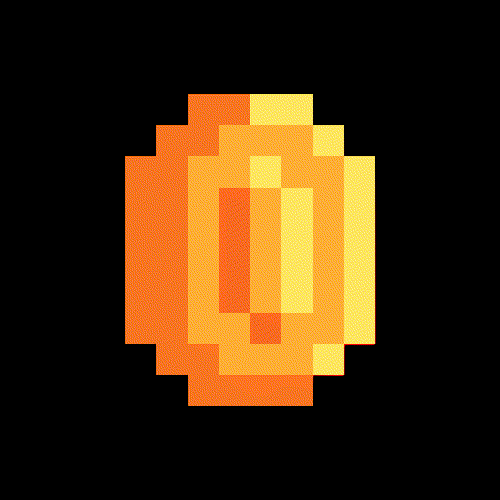
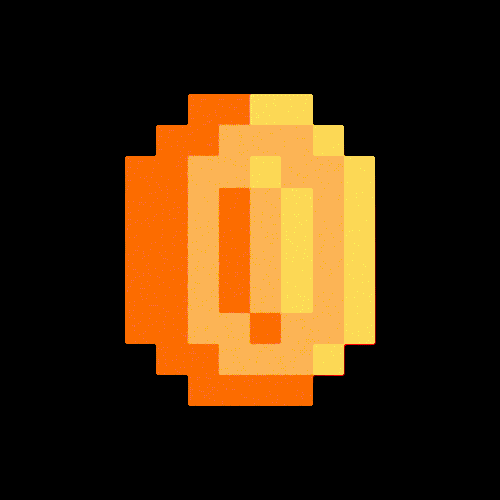
partial: change: added firmware side code

Changed region(s): [[0.24, 0.18, 0.75, 0.81]]

diff --git a/js-client/src/examples/test.ts b/js-client/src/examples/test.ts
@@ -21,7 +21,7 @@ const finalAnimation = BuildAnimation({
 	width: 100,
 	height: 100,
 	delta: 30,
-	max_colors: 100,
+	max_colors: 10,
 	quantizer: 'mediancut',
 });
 

diff --git a/src/rendering/render-parameter-parsers.cpp b/src/rendering/render-parameter-parsers.cpp
@@ -768,4 +768,36 @@ namespace RenderParameterParsers
         file.close();
         return success;
     }
+
+    bool HandleDrawGMPANIF1(const uint8_t *data, size_t length, uint8_t parameterCount)
+    {
+        RenderUtilities::ParameterArray params;
+        if (!ReadParams(data, length, parameterCount, params))
+        {
+            DebugLog.println(F("HandleDrawLFSRGB565: Failed to read parameters."));
+            return false;
+        }
+
+        auto &xParam = params[RendererConsts::PARAM_X];
+        auto &yParam = params[RendererConsts::PARAM_Y];
+        auto &filenameParam = params[RendererConsts::PARAM_FILE_NAME];
+        auto &animationIdParam = params[RendererConsts::PARAM_ANIMATION_ID];
+        // TODO: Implement drawing
+
+        return false;
+    }
+
+    bool HandleStopGMPANIF1(const uint8_t *data, size_t length, uint8_t parameterCount)
+    {
+        RenderUtilities::ParameterArray params;
+        if (!ReadParams(data, length, parameterCount, params))
+        {
+            DebugLog.println(F("HandleDrawLFSRGB565: Failed to read parameters."));
+            return false;
+        }
+        auto &animationIdParam = params[RendererConsts::PARAM_ANIMATION_ID];
+        // TODO: Implement stopping the GMPANIF1 animation based on animationIdParam
+
+        return false;
+    }
 }

diff --git a/src/rendering/renderer.cpp b/src/rendering/renderer.cpp
@@ -166,6 +166,22 @@ bool RenderContent(
                     parameterCount);
             break;
 
+        case RendererConsts::OP_DRAW_GMPANIF1:
+            success =
+                RenderParameterParsers::HandleDrawGMPANIF1(
+                    data + operationStart,
+                    length - operationStart,
+                    parameterCount);
+            break;
+
+        case RendererConsts::OP_STOP_GMPANIF1:
+            success =
+                RenderParameterParsers::HandleStopGMPANIF1(
+                    data + operationStart,
+                    length - operationStart,
+                    parameterCount);
+            break;
+
         default:
             DebugLog.print(
                 F("RenderContent: unsupported operation: "));

diff --git a/include/rendering/renderer-constants.h b/include/rendering/renderer-constants.h
@@ -25,7 +25,9 @@ namespace RendererConsts
         OP_DRAW_LFS_BITMAP = 0x0D,
         OP_REGISTER_GPIO_CALLBACK = 0x0E,
         OP_CLEAR_GPIO_CALLBACK = 0x0F,
-        OP_DRAW_LFS_RGB565 = 0x10
+        OP_DRAW_LFS_RGB565 = 0x10,
+        OP_DRAW_GMPANIF1 = 0x11,
+        OP_STOP_GMPANIF1 = 0x12
     };
 
     enum ParameterType : uint8_t
@@ -49,6 +51,7 @@ namespace RendererConsts
         PARAM_DITHER_COLOR = 0x11,
         PARAM_DITHER_SIZE = 0x12,
         PARAM_PIN_ID = 0x13,
+        PARAM_ANIMATION_ID = 0x14,
 
         PARAM_COUNT = 20
     };

diff --git a/include/rendering/render-parameter-parsers.h b/include/rendering/render-parameter-parsers.h
@@ -26,4 +26,6 @@ namespace RenderParameterParsers
     bool HandleRegisterGpioCallback(const uint8_t *data, size_t length, uint8_t parameterCount);
     bool HandleClearGpioCallback(const uint8_t *data, size_t length, uint8_t parameterCount);
     bool HandleDrawLFSRGB565(const uint8_t *data, size_t length, uint8_t parameterCount);
+    bool HandleDrawGMPANIF1(const uint8_t *data, size_t length, uint8_t parameterCount);
+    bool HandleStopGMPANIF1(const uint8_t *data, size_t length, uint8_t parameterCount);
 }
